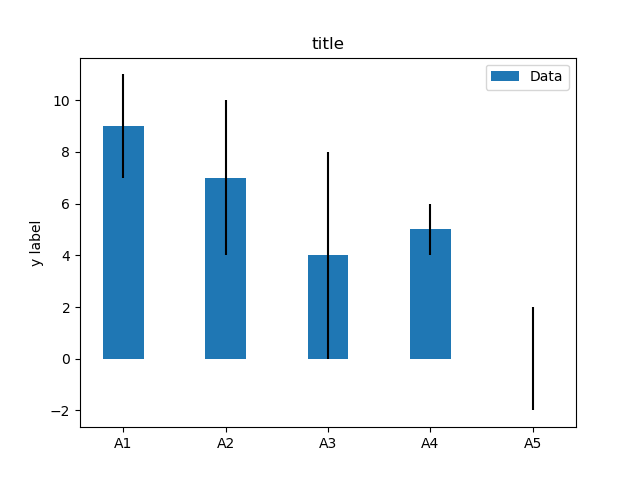
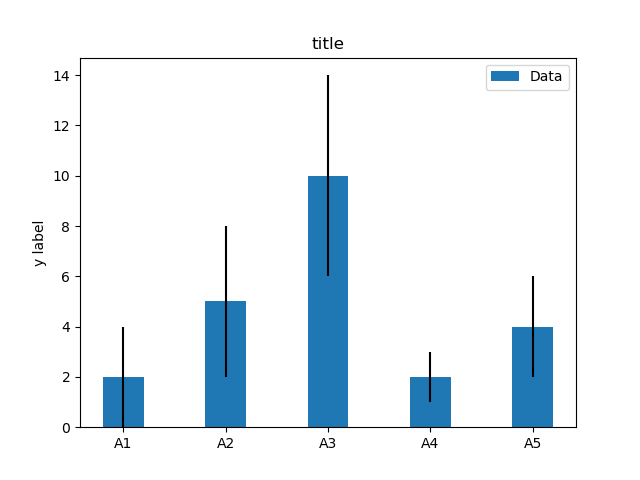
first commit

diff --git a/example.py b/example.py
@@ -2,7 +2,7 @@ import numpy as np
 import matplotlib.pyplot as plt
 
 labels = ['A1', 'A2', 'A3', 'A4', 'A5']
-m_means = [9,7,4,5,0]
+m_means = [2,5,10,2,4]
 m_std = [2, 3, 4, 1, 2]
 width = 0.40       # the width of the bars
 

diff --git a/README.md b/README.md
@@ -1,4 +1,4 @@
-# Matplotlib no 141 
+# Matplotlib no 142 
 
 python example
 
